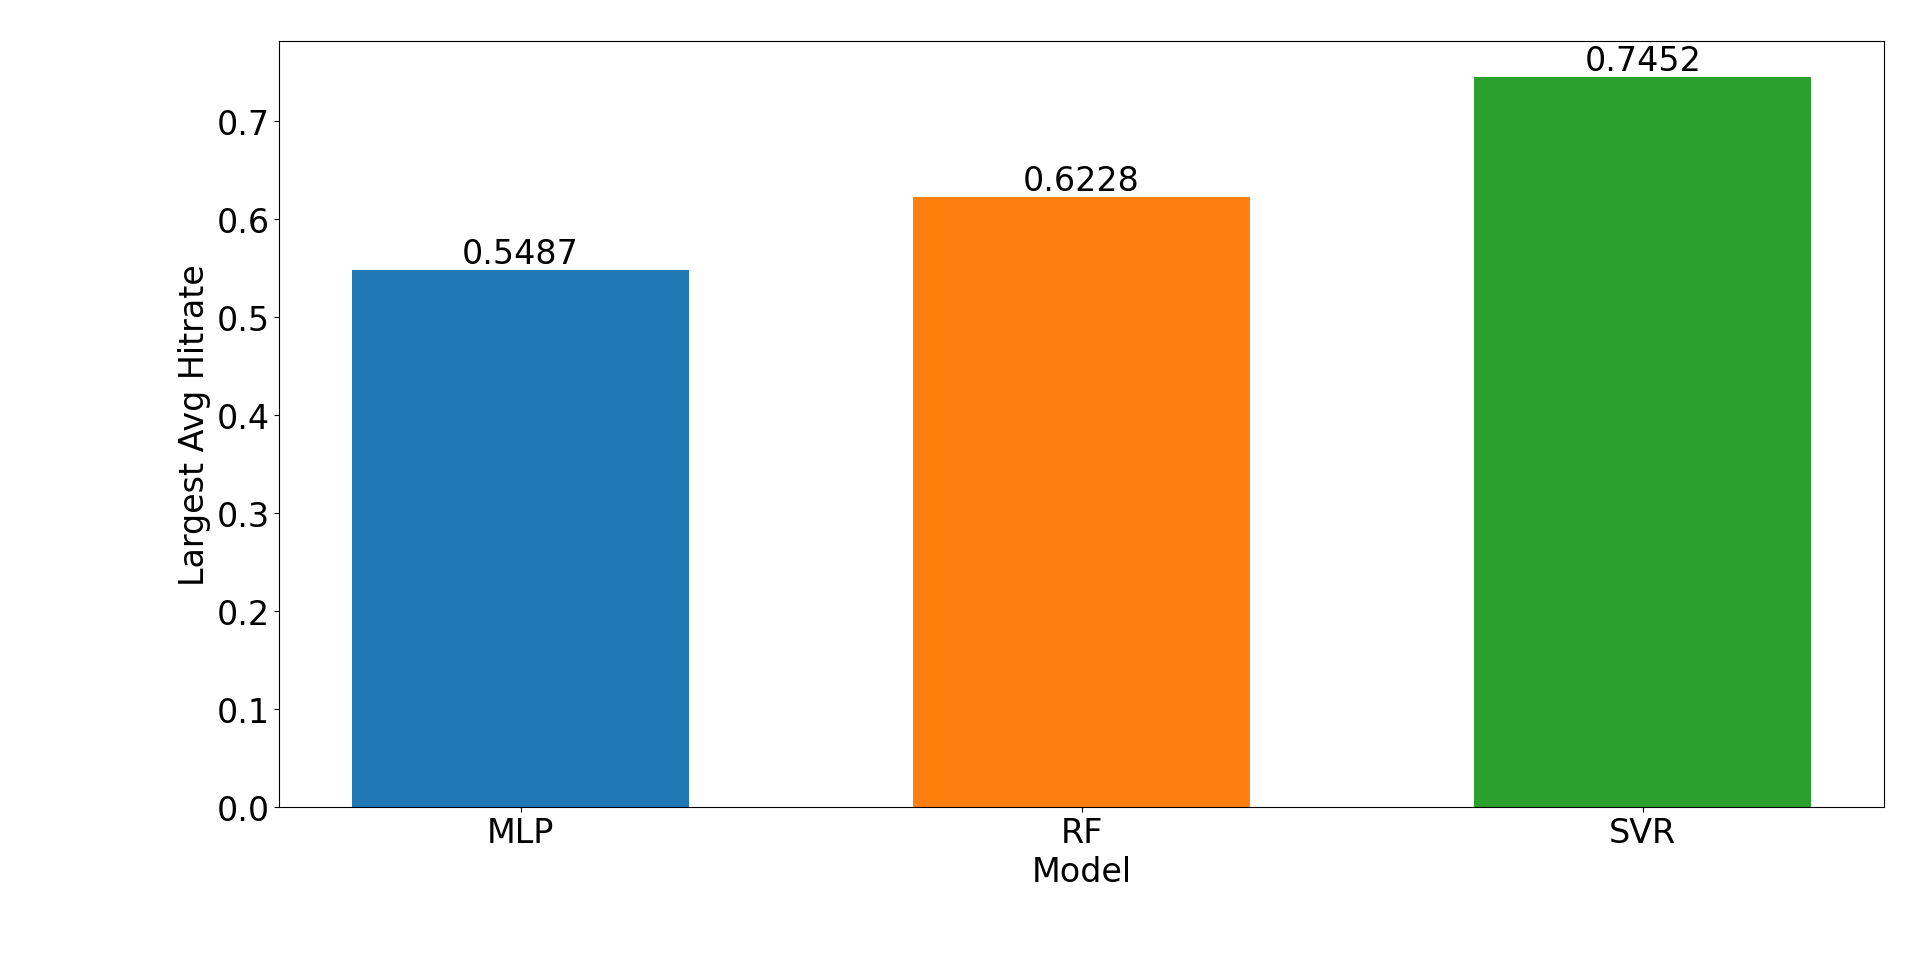
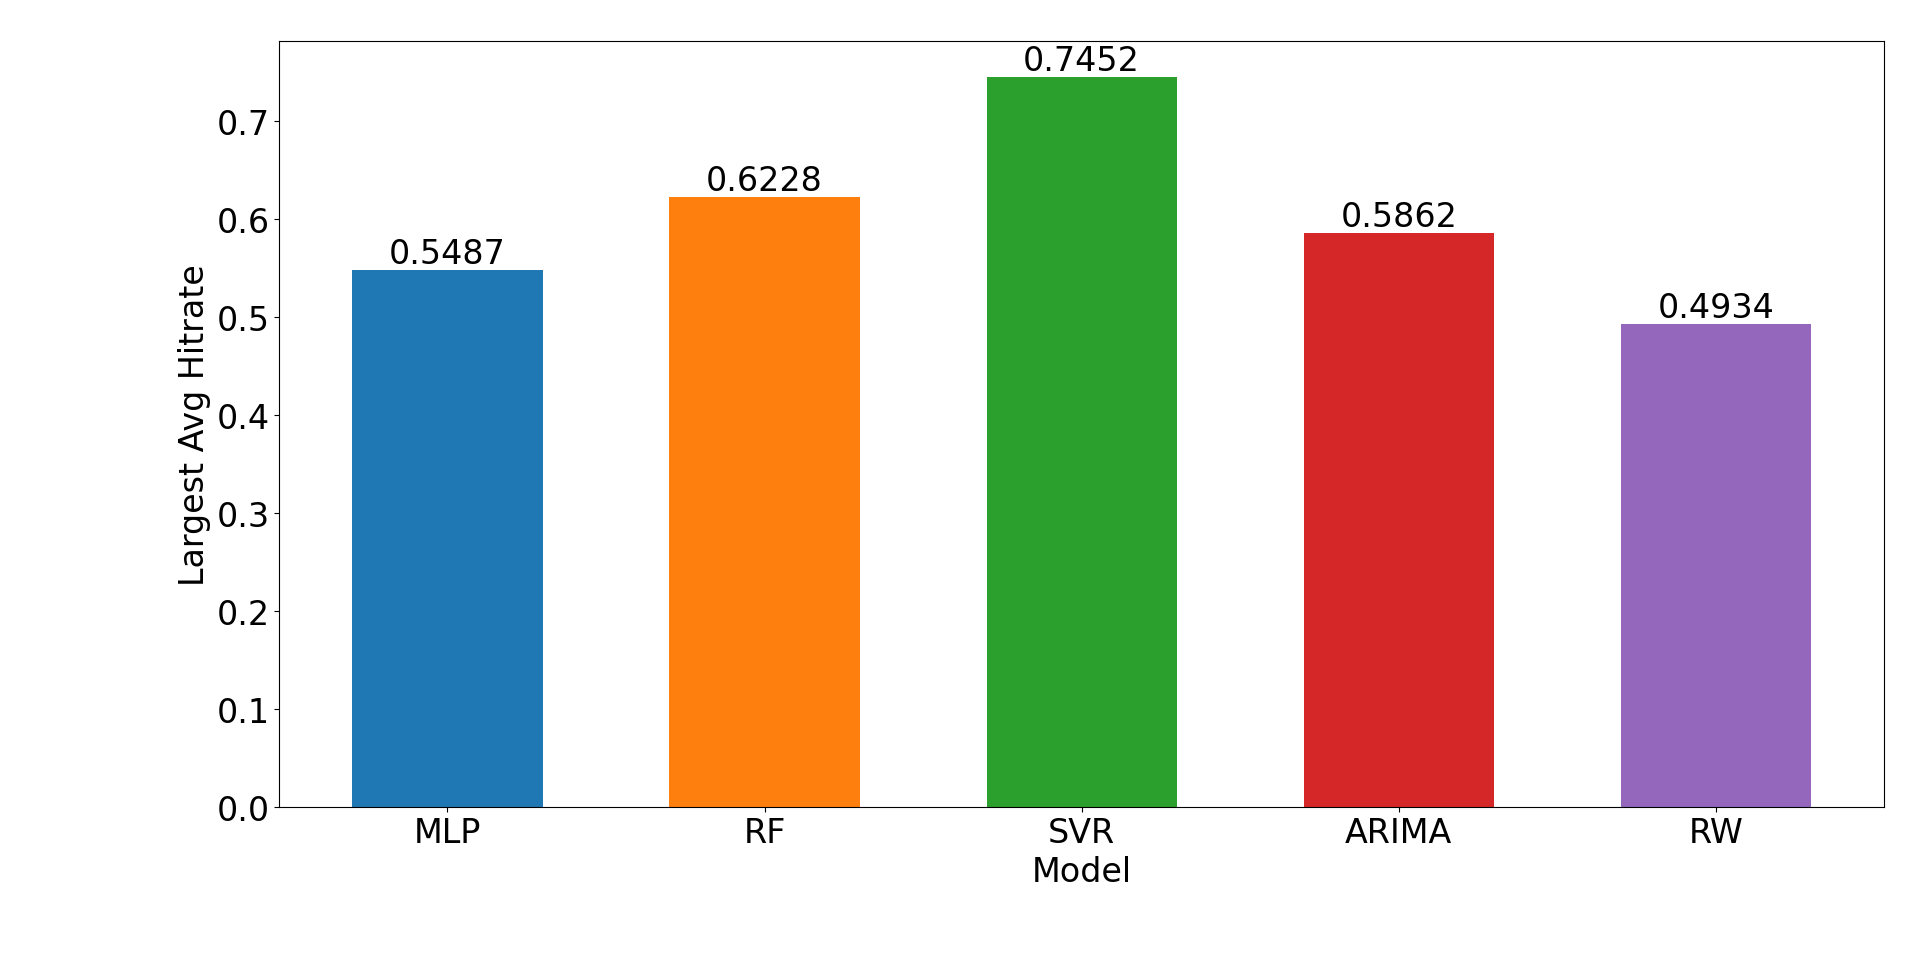
Addition of baseline models RW and ARIMA + conclusions

diff --git a/6-model-training-evaluation.tex b/6-model-training-evaluation.tex
@@ -59,7 +59,7 @@ In the first step each of the models was fitted on different suitable dataset pr
 
 Beyond the parameters being optimized each model was used with its default parameters with some exceptions. For the \gls{mlp} the activation function was changed to \gls{tanh} due to the normalization range of the data, shuffle was set to false to prevent data shuffling in order to not disrupt the continuous time series nature of the data, random state was set to zero for reproducability of the results and the maximum number of iterations was increased to 10000 in order to allow for model convergence. For the \gls{rf} only the random state was set. For the \gls{svr} non of the default parameters were changed.
 
-The parameters being optimized via OptunaSearchCV for each model as well as there selected value distributions are presented in table \ref{tab:mlp-hyperparams} for \gls{mlp}, table \ref{tab:rf-hyperparams} for \gls{rf} and table \ref{tab:svr-hyperparams} for \gls{svr}.
+The parameters being optimized via OptunaSearchCV for each model as well as there selected value distributions are presented in table \ref{tab:mlp-hyperparams} for \gls{mlp}, table \ref{tab:rf-hyperparams} for \gls{rf}, table \ref{tab:svr-hyperparams} for \gls{svr} and table \ref{tab:arima-hyperparams}.
 
 OptunaSearchCV was run for 1000 iterations for each model for each applicable dataset variation for each offset from 1 to 12 months. All parameters were retained at default values other than 'scoring' which was set to 'neg\_mean\_squared\_error'.
 
@@ -117,9 +117,27 @@ OptunaSearchCV was run for 1000 iterations for each model for each applicable da
     \label{tab:svr-hyperparams}
 \end{table}
 
+\begin{table}[h]
+    \centering
+    \begin{tabular}{|c|c|}
+        \hline
+        Parameter & Distribution \\
+        \hline
+        \hline
+        p & $Int(0, 6)$ \\
+        \hline
+        d & $Int(0, 6)$ \\
+        \hline
+        q & $Int(0, 6)$ \\
+        \hline
+    \end{tabular}
+    \caption{Optuna hyperparameter search space for ARIMA}
+    \label{tab:arima-hyperparams}
+\end{table}
+
 \subsubsection{Data analysis}\label{Data analysis}
 
-The forecasts obtained in the previous step were reverse transformed to obtain values in the same range as those of the original \gls{eer}. This was done due to the scale dependant nature of the \gls{mse} metric. Next for each dataset variation the cumulative averages for all offsets of the average \gls{mse} and \gls{ds} for the training and test set forecasts were calculated. As a result multiple rankings were obtained which can be seen in figures \ref{fig:mlp-mse} and \ref{fig:mlp-ds} for \gls{mlp}, figures \ref{fig:rf-mse} and \ref{fig:rf-ds} for \gls{rf} and figures \ref{fig:svr-mse} and \ref{fig:svr-ds} for \gls{svr}.
+The forecasts obtained in the previous step were reverse transformed to obtain values in the same range as those of the original \gls{eer}. This was done due to the scale dependant nature of the \gls{mse} metric. Next for each dataset variation the cumulative averages for all offsets of the average \gls{mse} and \gls{ds} for the training and test set forecasts were calculated. As a result multiple rankings were obtained which can be seen in figures \ref{fig:mlp-mse} and \ref{fig:mlp-ds} for \gls{mlp}, figures \ref{fig:rf-mse} and \ref{fig:rf-ds} for \gls{rf}, figures \ref{fig:svr-mse} and \ref{fig:svr-ds} for \gls{svr} and figures \ref{fig:arima-mse} and \ref{fig:arima-ds} for \gls{arima}. For the \gls{rw} model only the raw data was used.
 
 % Bar charts for the average MSE and Hitrate for different dataset variations for each model
 
@@ -165,6 +183,20 @@ The forecasts obtained in the previous step were reverse transformed to obtain v
     \label{fig:svr-ds}
 \end{figure}
 
+\begin{figure}[h]
+    \includegraphics[width=\textwidth]{images/metrics-by-dataset/arima_mse.png}
+    \centering
+    \caption{The \gls{mse} for the \gls{arima} model for various preprocessing steps. The sets of processing steps are indicated in shorthand as follows: l - log transformed, d - differenced, n - normalized, s - standardized, r - raw.}
+    \label{fig:arima-mse}
+\end{figure}
+
+\begin{figure}[h]
+    \includegraphics[width=\textwidth]{images/metrics-by-dataset/arima_hitrate.png}
+    \centering
+    \caption{The \gls{ds} for the \gls{arima} model for various preprocessing steps. The sets of processing steps are indicated in shorthand as follows: l - log transformed, d - differenced, n - normalized, s - standardized, r - raw.}
+    \label{fig:arima-ds}
+\end{figure}
+
 On the basis of the created rankings the best dataset preprocessing variations for each model were selected. The results are displayed in table \ref{tab:best-datasets}.
 
 % Metric - Model - Preprocessing steps
@@ -194,6 +226,10 @@ On the basis of the created rankings the best dataset preprocessing variations f
         % \cline{2-3}
         % \multirow{-1}{*}{} & \begin{tabular}{@{}c@{}}Hitrate\end{tabular} & log-diff-standardized \\
         \hline
+        \multirow{2}{*}{\begin{tabular}{@{}c@{}}\gls{arima}\end{tabular}} & \begin{tabular}{@{}c@{}}\gls{mse}\end{tabular} & log-differenced \\
+        \cline{2-3}
+        \multirow{-1}{*}{} & \begin{tabular}{@{}c@{}}Hitrate\end{tabular} & diff-standardized \\
+        \hline
     \end{tabular}
     \caption{The best dataset preprocessing steps per model per metric.}
     \label{tab:best-datasets}
@@ -201,7 +237,7 @@ On the basis of the created rankings the best dataset preprocessing variations f
 
 \newpage
 
-For the purpose of comparing the overall performance of different models the average \gls{mse} and \gls{ds} over both the train and test sets over all offsets was calculated. The results are visible in bar charts in figure \ref{fig:mse-model-cmp} for the \gls{mse} and figure \ref{fig:ds-model-cmp} for the \gls{ds}. On this basis it can be said that for the \gls{mse} the best performing models are the \gls{mlp} followed by the \gls{svr} and the \gls{rf} on the other hand for the \gls{ds} the best performing model is \gls{svr} followed by the \gls{rf} with the worst being the \gls{mlp}.
+For the purpose of comparing the overall performance of different models the average \gls{mse} and \gls{ds} over both the train and test sets over all offsets was calculated. The results are visible in bar charts in figure \ref{fig:mse-model-cmp} for the \gls{mse} and figure \ref{fig:ds-model-cmp} for the \gls{ds}.
 
 % Bar chart comparison of the best performing models
 
@@ -228,98 +264,98 @@ In the next step cumulative bar charts of the \gls{mse} figure \ref{fig:cumulati
 \begin{figure}[h]
     \includegraphics[width=\textwidth]{images/metrics-by-offset/all-mse.png}
     \centering
-    \caption{Comparison of the \gls{mse} of the forecasts for the best dataset preprocessing variant for each model for each offset.}
+    \caption{Comparison of the \gls{mse} of the forecasts for the best dataset preprocessing variant for each model for each offset. The sets of processing steps are indicated in shorthand as follows: l - log transformed, d - differenced, n - normalized, s - standardized, r - raw.}
     \label{fig:cumulative-mse}
 \end{figure}
 
 \begin{figure}[h]
     \includegraphics[width=\textwidth]{images/metrics-by-offset/all-ds.png}
     \centering
-    \caption{Comparison of the \gls{ds} of the forecasts for the best dataset preprocessing variant for each model for each offset.}
+    \caption{Comparison of the \gls{ds} of the forecasts for the best dataset preprocessing variant for each model for each offset. The sets of processing steps are indicated in shorthand as follows: l - log transformed, d - differenced, n - normalized, s - standardized, r - raw.}
     \label{fig:cumulative-ds}
 \end{figure}
 
 Additionally as can be seen below in figures from \ref{fig:forecast-cmp-1} to \ref{fig:forecast-cmp-12} the reverse transformed forecasts for each model for the USD currency were plotted for each offset.
 
 \begin{figure}[h]
-    \includegraphics[width=\textwidth]{images/forecast-comparison/1.png}
+    \includegraphics[width=\textwidth]{images/forecast-comparison/mse/1.png}
     \centering
     \caption{The best \gls{mse} forecasts per selected dataset per model for an offset of 1 month.}
     \label{fig:forecast-cmp-1}
 \end{figure}
 
 \begin{figure}[h]
-    \includegraphics[width=\textwidth]{images/forecast-comparison/2.png}
+    \includegraphics[width=\textwidth]{images/forecast-comparison/mse/2.png}
     \centering
     \caption{The best \gls{mse} forecasts per selected dataset per model for an offset of 2 months.}
     \label{fig:forecast-cmp-2}
 \end{figure}
 
 \begin{figure}[h]
-    \includegraphics[width=\textwidth]{images/forecast-comparison/3.png}
+    \includegraphics[width=\textwidth]{images/forecast-comparison/mse/3.png}
     \centering
     \caption{The best \gls{mse} forecasts per selected dataset per model for an offset of 3 months.}
     \label{fig:forecast-cmp-3}
 \end{figure}
 
 \begin{figure}[h]
-    \includegraphics[width=\textwidth]{images/forecast-comparison/4.png}
+    \includegraphics[width=\textwidth]{images/forecast-comparison/mse/4.png}
     \centering
     \caption{The best \gls{mse} forecasts per selected dataset per model for an offset of 4 months.}
     \label{fig:forecast-cmp-4}
 \end{figure}
 
 \begin{figure}[h]
-    \includegraphics[width=\textwidth]{images/forecast-comparison/5.png}
+    \includegraphics[width=\textwidth]{images/forecast-comparison/mse/5.png}
     \centering
     \caption{The best \gls{mse} forecasts per selected dataset per model for an offset of 5 months.}
     \label{fig:forecast-cmp-5}
 \end{figure}
 
 \begin{figure}[h]
-    \includegraphics[width=\textwidth]{images/forecast-comparison/6.png}
+    \includegraphics[width=\textwidth]{images/forecast-comparison/mse/6.png}
     \centering
     \caption{The best \gls{mse} forecasts per selected dataset per model for an offset of 6 months.}
     \label{fig:forecast-cmp-6}
 \end{figure}
 
 \begin{figure}[h]
-    \includegraphics[width=\textwidth]{images/forecast-comparison/7.png}
+    \includegraphics[width=\textwidth]{images/forecast-comparison/mse/7.png}
     \centering
     \caption{The best \gls{mse} forecasts per selected dataset per model for an offset of 7 months.}
     \label{fig:forecast-cmp-7}
 \end{figure}
 
 \begin{figure}[h]
-    \includegraphics[width=\textwidth]{images/forecast-comparison/8.png}
+    \includegraphics[width=\textwidth]{images/forecast-comparison/mse/8.png}
     \centering
     \caption{The best \gls{mse} forecasts per selected dataset per model for an offset of 8 months.}
     \label{fig:forecast-cmp-8}
 \end{figure}
 
 \begin{figure}[h]
-    \includegraphics[width=\textwidth]{images/forecast-comparison/9.png}
+    \includegraphics[width=\textwidth]{images/forecast-comparison/mse/9.png}
     \centering
     \caption{The best \gls{mse} forecasts per selected dataset per model for an offset of 9 months.}
     \label{fig:forecast-cmp-9}
 \end{figure}
 
 \begin{figure}[h]
-    \includegraphics[width=\textwidth]{images/forecast-comparison/10.png}
+    \includegraphics[width=\textwidth]{images/forecast-comparison/mse/10.png}
     \centering
     \caption{The best \gls{mse} forecasts per selected dataset per model for an offset of 10 months.}
     \label{fig:forecast-cmp-10}
 \end{figure}
 
 \begin{figure}[h]
-    \includegraphics[width=\textwidth]{images/forecast-comparison/11.png}
+    \includegraphics[width=\textwidth]{images/forecast-comparison/mse/11.png}
     \centering
     \caption{The best \gls{mse} forecasts per selected dataset per model for an offset of 11 months.}
     \label{fig:forecast-cmp-11}
 \end{figure}
 
 \begin{figure}[h]
-    \includegraphics[width=\textwidth]{images/forecast-comparison/12.png}
+    \includegraphics[width=\textwidth]{images/forecast-comparison/mse/12.png}
     \centering
     \caption{The best \gls{mse} forecasts per selected dataset per model for an offset of 12 months.}
     \label{fig:forecast-cmp-12}

diff --git a/7-conclusions.tex b/7-conclusions.tex
@@ -1,4 +1,12 @@
 \section{Conclusions}\label{Conclusions}
 
-In this paper an effort was made to fit the \gls{mlp}, \gls{rf} and \gls{svr} models on multivariate currency exchange rate data. Even though the \gls{mse} results indicated a perfect or near perfect fit on the preprocessed test data the reverse transformed forecasts exhibited little to no similarity to their real values.
+In this paper an effort was made to fit three commonly used machine learning algorithms the \gls{mlp}, \gls{rf} and \gls{svr} models on multivariate currency exchange rate data. This was done in order to assess there applicability for forecasting.
+
+Before the selected data could be used with the chosen models appropriate data preparation techniques had to be applied. As a first variables with missing values had to be removed. Next various combinations of intermediary preprocessing steps including log transformation, differencing and scaling were used to create multiple dataset variations for testing. After that came feature creation consisting of the duplication and application of a offset to each predictor variable. Multiple dataset were created with the offset applied ranging from 1 to 12 months. Following this step was feature selection allowing for the elimination of irrelevant feature variables and decorrelation allowing for the removal of all but one of every set of remaining intercorrelated feature variables. The final step of data preparation was the splitting of the dataset into train and test subsets in a 70:30 proportion. Once these steps were completed the models could be applied to the data. Since each model but the \gls{rf} has specific requirements for optimal model performance not all dataset variations were applied to all models.
+
+All models were fitted on the prepared data using the Optuna hyperparameter optimization framework with the exception of the \gls{rw} model that did not require any fitting. For each model the most suitable data preprocessing variation was selected on the basis of the cumulative average \gls{mse} and \gls{ds}. Once selected the best values of each result for both metrics between models were compared. On the basis of figure \ref{fig:mse-model-cmp} for the \gls{mse} the best performing models are the \gls{mlp} followed by \gls{svr}, \gls{rf}, \gls{arima} and finally \gls{rw}. As for the hitrate with results visible on figure \ref{fig:ds-model-cmp} the best performing model is \gls{svr} followed by the \gls{rf}, \gls{arima}, \gls{mlp} and ending with \gls{rw}.
+
+In figure \ref{fig:cumulative-mse} comparing the average \gls{mse} of each best model - dataset combination for each offset a common tendancy is visible and shared by all models. The greater the offset the greater the error. All machine learning models exceeded the performance of the \gls{rw} model with few exceptions. In regards to the \gls{arima} model the results are varied with only the \gls{mlp} exceeding its performance with one exception, while the \gls{rf} and \gls{svr} models exhibitng worse performance in over half of the offsets. Regarding the offset dependant results of \gls{ds} visible on figure \ref{fig:cumulative-ds} the same trend as with the \gls{mse} is not clearly defined however some form of seasonality it visible. For all offsets \gls{svr} and \gls{rf} outperform both the \gls{rw} and \gls{arima} models. The \gls{mlp} shows the worst performance comparable to that of the \gls{rw} for over half of the offsets.
+
+The best models \gls{mlp} for \gls{mse} and \gls{svr} for \gls{ds} exceeding the accuracy of contemporaty baseline models by a significant margin indicates their suitability for use as a support in investment decisions and risk management.
 

diff --git a/4-tools.tex b/4-tools.tex
@@ -6,10 +6,6 @@ The following is a list of the tools used in the data preprocessing, training an
 
 The programming language used in all steps of this research paper was python. The primary reason for this was its simple but powerful syntax wide spread use, the broad availability of various libraries and frameworks for data processing, analysis and \gls{ai} modeling including scikit-learn, keras and pytorch among many others as well as the associated availability of information on the use of these various tools provided by the extensive community surrounding them \cite{python}.
 
-\subsection*{Jupyter}\label{Jupyter}
-
-An open-source python web application for the interactive execution of code in notebooks alongside visualizations and text based elements \cite{jupyter}.
-
 \subsection*{Numpy}\label{Numpy}
 
 A python package for accelerated array based scientific computing utilizing a C based backend implementation with various optimizations \cite{numpy}.
@@ -29,4 +25,8 @@ A python module for the estimation of many different statistical models, conduct
 \subsection*{Optuna}\label{Optuna}
 
 An automatic hyperparameter optimization software framework, particularly designed for machine learning. It features an imperative, define-by-run style user API \cite{optuna}.
+
+\subsection*{Pmdarima}\label{Pmdarima}
+
+A statistical library for time series analysis and forecasting \cite{pmdarima}.
 
